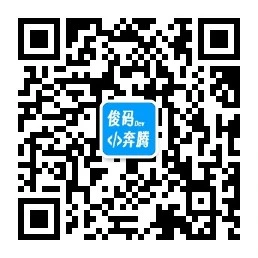
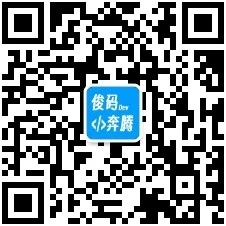
Site updated: 2024-10-30 13:49:55

diff --git a/archives/2023/11/index.html b/archives/2023/11/index.html
@@ -473,9 +473,9 @@
 <p>我大学主修软件工程专业，2016 年入学，修完四年的课程于 2020 年毕业。毕业后进入 IT 行业从事 Java 研发工作，经过紧张的面试准备，幸运于很快就找到了工作，然后和大家一样经历了三年疫情，民生多艰。</p>
 <p>工作上技术以 Java 周边的技术栈为主，涉及 Linux 服务端web开发，大数据，GIS等，喜欢阅读，还喜欢研究新技术，知识管理，时间管理等方法。</p>
 <p>除了上班勤勤恳恳地敲代码，业余还喜欢犒劳下自己，下厨做美食，外出探店，或者路边喝杯咖啡吃个甜点小憩下。我也很喜欢户外运动，无奈上班以来时间渐少，但还是会忙里偷闲，拿出些时间户外游山玩水，以前也去过很多地方，遇到很多有趣的人和事，后面有兴趣可以写几篇聊聊。</p>
-<p><a href='/about'>博客</a>作为自留地，没啥人看，当作自言自语和内心聊天。主要记录：技术开发、生活感悟、读书笔记。</p>
-<p>联系我：邮箱：youngdream365##qq.com（##替换为@）	<a target="_blank" rel="noopener" href='https://gitee.com/youngdream365'>github</a>	<a target="_blank" rel="noopener" href='https://gitee.com/youngdream365'>gitee</a></p>
-<img src="img/wechat_gzh_qrcode2.webp" alt="微信公众号" style="zoom:50%;" />
+<p>博客作为自留地，没啥人看，当作自言自语和内心聊天。主要记录：技术开发、生活感悟、读书笔记。   <a href='/about'>关于博客</a></p>
+<p>联系我：<a target="_blank" rel="noopener" href='https://github.com/youngdream365'>github</a>    <a target="_blank" rel="noopener" href='https://gitee.com/youngdream365'>gitee</a> 邮箱：youngdream365##qq.com（##替换为@）</p>
+<img src="img/wechat_gzh_qrcode.webp" alt="微信公众号" style="zoom:50%;" />
 
 
 

diff --git a/archives/2023/index.html b/archives/2023/index.html
@@ -473,9 +473,9 @@
 <p>我大学主修软件工程专业，2016 年入学，修完四年的课程于 2020 年毕业。毕业后进入 IT 行业从事 Java 研发工作，经过紧张的面试准备，幸运于很快就找到了工作，然后和大家一样经历了三年疫情，民生多艰。</p>
 <p>工作上技术以 Java 周边的技术栈为主，涉及 Linux 服务端web开发，大数据，GIS等，喜欢阅读，还喜欢研究新技术，知识管理，时间管理等方法。</p>
 <p>除了上班勤勤恳恳地敲代码，业余还喜欢犒劳下自己，下厨做美食，外出探店，或者路边喝杯咖啡吃个甜点小憩下。我也很喜欢户外运动，无奈上班以来时间渐少，但还是会忙里偷闲，拿出些时间户外游山玩水，以前也去过很多地方，遇到很多有趣的人和事，后面有兴趣可以写几篇聊聊。</p>
-<p><a href='/about'>博客</a>作为自留地，没啥人看，当作自言自语和内心聊天。主要记录：技术开发、生活感悟、读书笔记。</p>
-<p>联系我：邮箱：youngdream365##qq.com（##替换为@）	<a target="_blank" rel="noopener" href='https://gitee.com/youngdream365'>github</a>	<a target="_blank" rel="noopener" href='https://gitee.com/youngdream365'>gitee</a></p>
-<img src="img/wechat_gzh_qrcode2.webp" alt="微信公众号" style="zoom:50%;" />
+<p>博客作为自留地，没啥人看，当作自言自语和内心聊天。主要记录：技术开发、生活感悟、读书笔记。   <a href='/about'>关于博客</a></p>
+<p>联系我：<a target="_blank" rel="noopener" href='https://github.com/youngdream365'>github</a>    <a target="_blank" rel="noopener" href='https://gitee.com/youngdream365'>gitee</a> 邮箱：youngdream365##qq.com（##替换为@）</p>
+<img src="img/wechat_gzh_qrcode.webp" alt="微信公众号" style="zoom:50%;" />
 
 
 

diff --git a/archives/2024/08/index.html b/archives/2024/08/index.html
@@ -473,9 +473,9 @@
 <p>我大学主修软件工程专业，2016 年入学，修完四年的课程于 2020 年毕业。毕业后进入 IT 行业从事 Java 研发工作，经过紧张的面试准备，幸运于很快就找到了工作，然后和大家一样经历了三年疫情，民生多艰。</p>
 <p>工作上技术以 Java 周边的技术栈为主，涉及 Linux 服务端web开发，大数据，GIS等，喜欢阅读，还喜欢研究新技术，知识管理，时间管理等方法。</p>
 <p>除了上班勤勤恳恳地敲代码，业余还喜欢犒劳下自己，下厨做美食，外出探店，或者路边喝杯咖啡吃个甜点小憩下。我也很喜欢户外运动，无奈上班以来时间渐少，但还是会忙里偷闲，拿出些时间户外游山玩水，以前也去过很多地方，遇到很多有趣的人和事，后面有兴趣可以写几篇聊聊。</p>
-<p><a href='/about'>博客</a>作为自留地，没啥人看，当作自言自语和内心聊天。主要记录：技术开发、生活感悟、读书笔记。</p>
-<p>联系我：邮箱：youngdream365##qq.com（##替换为@）	<a target="_blank" rel="noopener" href='https://gitee.com/youngdream365'>github</a>	<a target="_blank" rel="noopener" href='https://gitee.com/youngdream365'>gitee</a></p>
-<img src="img/wechat_gzh_qrcode2.webp" alt="微信公众号" style="zoom:50%;" />
+<p>博客作为自留地，没啥人看，当作自言自语和内心聊天。主要记录：技术开发、生活感悟、读书笔记。   <a href='/about'>关于博客</a></p>
+<p>联系我：<a target="_blank" rel="noopener" href='https://github.com/youngdream365'>github</a>    <a target="_blank" rel="noopener" href='https://gitee.com/youngdream365'>gitee</a> 邮箱：youngdream365##qq.com（##替换为@）</p>
+<img src="img/wechat_gzh_qrcode.webp" alt="微信公众号" style="zoom:50%;" />
 
 
 

diff --git a/archives/2024/09/index.html b/archives/2024/09/index.html
@@ -473,9 +473,9 @@
 <p>我大学主修软件工程专业，2016 年入学，修完四年的课程于 2020 年毕业。毕业后进入 IT 行业从事 Java 研发工作，经过紧张的面试准备，幸运于很快就找到了工作，然后和大家一样经历了三年疫情，民生多艰。</p>
 <p>工作上技术以 Java 周边的技术栈为主，涉及 Linux 服务端web开发，大数据，GIS等，喜欢阅读，还喜欢研究新技术，知识管理，时间管理等方法。</p>
 <p>除了上班勤勤恳恳地敲代码，业余还喜欢犒劳下自己，下厨做美食，外出探店，或者路边喝杯咖啡吃个甜点小憩下。我也很喜欢户外运动，无奈上班以来时间渐少，但还是会忙里偷闲，拿出些时间户外游山玩水，以前也去过很多地方，遇到很多有趣的人和事，后面有兴趣可以写几篇聊聊。</p>
-<p><a href='/about'>博客</a>作为自留地，没啥人看，当作自言自语和内心聊天。主要记录：技术开发、生活感悟、读书笔记。</p>
-<p>联系我：邮箱：youngdream365##qq.com（##替换为@）	<a target="_blank" rel="noopener" href='https://gitee.com/youngdream365'>github</a>	<a target="_blank" rel="noopener" href='https://gitee.com/youngdream365'>gitee</a></p>
-<img src="img/wechat_gzh_qrcode2.webp" alt="微信公众号" style="zoom:50%;" />
+<p>博客作为自留地，没啥人看，当作自言自语和内心聊天。主要记录：技术开发、生活感悟、读书笔记。   <a href='/about'>关于博客</a></p>
+<p>联系我：<a target="_blank" rel="noopener" href='https://github.com/youngdream365'>github</a>    <a target="_blank" rel="noopener" href='https://gitee.com/youngdream365'>gitee</a> 邮箱：youngdream365##qq.com（##替换为@）</p>
+<img src="img/wechat_gzh_qrcode.webp" alt="微信公众号" style="zoom:50%;" />
 
 
 

diff --git a/archives/2024/index.html b/archives/2024/index.html
@@ -473,9 +473,9 @@
 <p>我大学主修软件工程专业，2016 年入学，修完四年的课程于 2020 年毕业。毕业后进入 IT 行业从事 Java 研发工作，经过紧张的面试准备，幸运于很快就找到了工作，然后和大家一样经历了三年疫情，民生多艰。</p>
 <p>工作上技术以 Java 周边的技术栈为主，涉及 Linux 服务端web开发，大数据，GIS等，喜欢阅读，还喜欢研究新技术，知识管理，时间管理等方法。</p>
 <p>除了上班勤勤恳恳地敲代码，业余还喜欢犒劳下自己，下厨做美食，外出探店，或者路边喝杯咖啡吃个甜点小憩下。我也很喜欢户外运动，无奈上班以来时间渐少，但还是会忙里偷闲，拿出些时间户外游山玩水，以前也去过很多地方，遇到很多有趣的人和事，后面有兴趣可以写几篇聊聊。</p>
-<p><a href='/about'>博客</a>作为自留地，没啥人看，当作自言自语和内心聊天。主要记录：技术开发、生活感悟、读书笔记。</p>
-<p>联系我：邮箱：youngdream365##qq.com（##替换为@）	<a target="_blank" rel="noopener" href='https://gitee.com/youngdream365'>github</a>	<a target="_blank" rel="noopener" href='https://gitee.com/youngdream365'>gitee</a></p>
-<img src="img/wechat_gzh_qrcode2.webp" alt="微信公众号" style="zoom:50%;" />
+<p>博客作为自留地，没啥人看，当作自言自语和内心聊天。主要记录：技术开发、生活感悟、读书笔记。   <a href='/about'>关于博客</a></p>
+<p>联系我：<a target="_blank" rel="noopener" href='https://github.com/youngdream365'>github</a>    <a target="_blank" rel="noopener" href='https://gitee.com/youngdream365'>gitee</a> 邮箱：youngdream365##qq.com（##替换为@）</p>
+<img src="img/wechat_gzh_qrcode.webp" alt="微信公众号" style="zoom:50%;" />
 
 
 

diff --git a/archives/2024/page/2/index.html b/archives/2024/page/2/index.html
@@ -473,9 +473,9 @@
 <p>我大学主修软件工程专业，2016 年入学，修完四年的课程于 2020 年毕业。毕业后进入 IT 行业从事 Java 研发工作，经过紧张的面试准备，幸运于很快就找到了工作，然后和大家一样经历了三年疫情，民生多艰。</p>
 <p>工作上技术以 Java 周边的技术栈为主，涉及 Linux 服务端web开发，大数据，GIS等，喜欢阅读，还喜欢研究新技术，知识管理，时间管理等方法。</p>
 <p>除了上班勤勤恳恳地敲代码，业余还喜欢犒劳下自己，下厨做美食，外出探店，或者路边喝杯咖啡吃个甜点小憩下。我也很喜欢户外运动，无奈上班以来时间渐少，但还是会忙里偷闲，拿出些时间户外游山玩水，以前也去过很多地方，遇到很多有趣的人和事，后面有兴趣可以写几篇聊聊。</p>
-<p><a href='/about'>博客</a>作为自留地，没啥人看，当作自言自语和内心聊天。主要记录：技术开发、生活感悟、读书笔记。</p>
-<p>联系我：邮箱：youngdream365##qq.com（##替换为@）	<a target="_blank" rel="noopener" href='https://gitee.com/youngdream365'>github</a>	<a target="_blank" rel="noopener" href='https://gitee.com/youngdream365'>gitee</a></p>
-<img src="img/wechat_gzh_qrcode2.webp" alt="微信公众号" style="zoom:50%;" />
+<p>博客作为自留地，没啥人看，当作自言自语和内心聊天。主要记录：技术开发、生活感悟、读书笔记。   <a href='/about'>关于博客</a></p>
+<p>联系我：<a target="_blank" rel="noopener" href='https://github.com/youngdream365'>github</a>    <a target="_blank" rel="noopener" href='https://gitee.com/youngdream365'>gitee</a> 邮箱：youngdream365##qq.com（##替换为@）</p>
+<img src="img/wechat_gzh_qrcode.webp" alt="微信公众号" style="zoom:50%;" />
 
 
 

diff --git a/archives/index.html b/archives/index.html
@@ -473,9 +473,9 @@
 <p>我大学主修软件工程专业，2016 年入学，修完四年的课程于 2020 年毕业。毕业后进入 IT 行业从事 Java 研发工作，经过紧张的面试准备，幸运于很快就找到了工作，然后和大家一样经历了三年疫情，民生多艰。</p>
 <p>工作上技术以 Java 周边的技术栈为主，涉及 Linux 服务端web开发，大数据，GIS等，喜欢阅读，还喜欢研究新技术，知识管理，时间管理等方法。</p>
 <p>除了上班勤勤恳恳地敲代码，业余还喜欢犒劳下自己，下厨做美食，外出探店，或者路边喝杯咖啡吃个甜点小憩下。我也很喜欢户外运动，无奈上班以来时间渐少，但还是会忙里偷闲，拿出些时间户外游山玩水，以前也去过很多地方，遇到很多有趣的人和事，后面有兴趣可以写几篇聊聊。</p>
-<p><a href='/about'>博客</a>作为自留地，没啥人看，当作自言自语和内心聊天。主要记录：技术开发、生活感悟、读书笔记。</p>
-<p>联系我：邮箱：youngdream365##qq.com（##替换为@）	<a target="_blank" rel="noopener" href='https://gitee.com/youngdream365'>github</a>	<a target="_blank" rel="noopener" href='https://gitee.com/youngdream365'>gitee</a></p>
-<img src="img/wechat_gzh_qrcode2.webp" alt="微信公众号" style="zoom:50%;" />
+<p>博客作为自留地，没啥人看，当作自言自语和内心聊天。主要记录：技术开发、生活感悟、读书笔记。   <a href='/about'>关于博客</a></p>
+<p>联系我：<a target="_blank" rel="noopener" href='https://github.com/youngdream365'>github</a>    <a target="_blank" rel="noopener" href='https://gitee.com/youngdream365'>gitee</a> 邮箱：youngdream365##qq.com（##替换为@）</p>
+<img src="img/wechat_gzh_qrcode.webp" alt="微信公众号" style="zoom:50%;" />
 
 
 

diff --git a/archives/page/2/index.html b/archives/page/2/index.html
@@ -473,9 +473,9 @@
 <p>我大学主修软件工程专业，2016 年入学，修完四年的课程于 2020 年毕业。毕业后进入 IT 行业从事 Java 研发工作，经过紧张的面试准备，幸运于很快就找到了工作，然后和大家一样经历了三年疫情，民生多艰。</p>
 <p>工作上技术以 Java 周边的技术栈为主，涉及 Linux 服务端web开发，大数据，GIS等，喜欢阅读，还喜欢研究新技术，知识管理，时间管理等方法。</p>
 <p>除了上班勤勤恳恳地敲代码，业余还喜欢犒劳下自己，下厨做美食，外出探店，或者路边喝杯咖啡吃个甜点小憩下。我也很喜欢户外运动，无奈上班以来时间渐少，但还是会忙里偷闲，拿出些时间户外游山玩水，以前也去过很多地方，遇到很多有趣的人和事，后面有兴趣可以写几篇聊聊。</p>
-<p><a href='/about'>博客</a>作为自留地，没啥人看，当作自言自语和内心聊天。主要记录：技术开发、生活感悟、读书笔记。</p>
-<p>联系我：邮箱：youngdream365##qq.com（##替换为@）	<a target="_blank" rel="noopener" href='https://gitee.com/youngdream365'>github</a>	<a target="_blank" rel="noopener" href='https://gitee.com/youngdream365'>gitee</a></p>
-<img src="img/wechat_gzh_qrcode2.webp" alt="微信公众号" style="zoom:50%;" />
+<p>博客作为自留地，没啥人看，当作自言自语和内心聊天。主要记录：技术开发、生活感悟、读书笔记。   <a href='/about'>关于博客</a></p>
+<p>联系我：<a target="_blank" rel="noopener" href='https://github.com/youngdream365'>github</a>    <a target="_blank" rel="noopener" href='https://gitee.com/youngdream365'>gitee</a> 邮箱：youngdream365##qq.com（##替换为@）</p>
+<img src="img/wechat_gzh_qrcode.webp" alt="微信公众号" style="zoom:50%;" />
 
 
 

diff --git a/categories/blog/hexo/index.html b/categories/blog/hexo/index.html
@@ -473,9 +473,9 @@
 <p>我大学主修软件工程专业，2016 年入学，修完四年的课程于 2020 年毕业。毕业后进入 IT 行业从事 Java 研发工作，经过紧张的面试准备，幸运于很快就找到了工作，然后和大家一样经历了三年疫情，民生多艰。</p>
 <p>工作上技术以 Java 周边的技术栈为主，涉及 Linux 服务端web开发，大数据，GIS等，喜欢阅读，还喜欢研究新技术，知识管理，时间管理等方法。</p>
 <p>除了上班勤勤恳恳地敲代码，业余还喜欢犒劳下自己，下厨做美食，外出探店，或者路边喝杯咖啡吃个甜点小憩下。我也很喜欢户外运动，无奈上班以来时间渐少，但还是会忙里偷闲，拿出些时间户外游山玩水，以前也去过很多地方，遇到很多有趣的人和事，后面有兴趣可以写几篇聊聊。</p>
-<p><a href='/about'>博客</a>作为自留地，没啥人看，当作自言自语和内心聊天。主要记录：技术开发、生活感悟、读书笔记。</p>
-<p>联系我：邮箱：youngdream365##qq.com（##替换为@）	<a target="_blank" rel="noopener" href='https://gitee.com/youngdream365'>github</a>	<a target="_blank" rel="noopener" href='https://gitee.com/youngdream365'>gitee</a></p>
-<img src="img/wechat_gzh_qrcode2.webp" alt="微信公众号" style="zoom:50%;" />
+<p>博客作为自留地，没啥人看，当作自言自语和内心聊天。主要记录：技术开发、生活感悟、读书笔记。   <a href='/about'>关于博客</a></p>
+<p>联系我：<a target="_blank" rel="noopener" href='https://github.com/youngdream365'>github</a>    <a target="_blank" rel="noopener" href='https://gitee.com/youngdream365'>gitee</a> 邮箱：youngdream365##qq.com（##替换为@）</p>
+<img src="img/wechat_gzh_qrcode.webp" alt="微信公众号" style="zoom:50%;" />
 
 
 

diff --git a/categories/blog/index.html b/categories/blog/index.html
@@ -473,9 +473,9 @@
 <p>我大学主修软件工程专业，2016 年入学，修完四年的课程于 2020 年毕业。毕业后进入 IT 行业从事 Java 研发工作，经过紧张的面试准备，幸运于很快就找到了工作，然后和大家一样经历了三年疫情，民生多艰。</p>
 <p>工作上技术以 Java 周边的技术栈为主，涉及 Linux 服务端web开发，大数据，GIS等，喜欢阅读，还喜欢研究新技术，知识管理，时间管理等方法。</p>
 <p>除了上班勤勤恳恳地敲代码，业余还喜欢犒劳下自己，下厨做美食，外出探店，或者路边喝杯咖啡吃个甜点小憩下。我也很喜欢户外运动，无奈上班以来时间渐少，但还是会忙里偷闲，拿出些时间户外游山玩水，以前也去过很多地方，遇到很多有趣的人和事，后面有兴趣可以写几篇聊聊。</p>
-<p><a href='/about'>博客</a>作为自留地，没啥人看，当作自言自语和内心聊天。主要记录：技术开发、生活感悟、读书笔记。</p>
-<p>联系我：邮箱：youngdream365##qq.com（##替换为@）	<a target="_blank" rel="noopener" href='https://gitee.com/youngdream365'>github</a>	<a target="_blank" rel="noopener" href='https://gitee.com/youngdream365'>gitee</a></p>
-<img src="img/wechat_gzh_qrcode2.webp" alt="微信公众号" style="zoom:50%;" />
+<p>博客作为自留地，没啥人看，当作自言自语和内心聊天。主要记录：技术开发、生活感悟、读书笔记。   <a href='/about'>关于博客</a></p>
+<p>联系我：<a target="_blank" rel="noopener" href='https://github.com/youngdream365'>github</a>    <a target="_blank" rel="noopener" href='https://gitee.com/youngdream365'>gitee</a> 邮箱：youngdream365##qq.com（##替换为@）</p>
+<img src="img/wechat_gzh_qrcode.webp" alt="微信公众号" style="zoom:50%;" />
 
 
 

diff --git a/categories/软考/index.html b/categories/软考/index.html
@@ -473,9 +473,9 @@
 <p>我大学主修软件工程专业，2016 年入学，修完四年的课程于 2020 年毕业。毕业后进入 IT 行业从事 Java 研发工作，经过紧张的面试准备，幸运于很快就找到了工作，然后和大家一样经历了三年疫情，民生多艰。</p>
 <p>工作上技术以 Java 周边的技术栈为主，涉及 Linux 服务端web开发，大数据，GIS等，喜欢阅读，还喜欢研究新技术，知识管理，时间管理等方法。</p>
 <p>除了上班勤勤恳恳地敲代码，业余还喜欢犒劳下自己，下厨做美食，外出探店，或者路边喝杯咖啡吃个甜点小憩下。我也很喜欢户外运动，无奈上班以来时间渐少，但还是会忙里偷闲，拿出些时间户外游山玩水，以前也去过很多地方，遇到很多有趣的人和事，后面有兴趣可以写几篇聊聊。</p>
-<p><a href='/about'>博客</a>作为自留地，没啥人看，当作自言自语和内心聊天。主要记录：技术开发、生活感悟、读书笔记。</p>
-<p>联系我：邮箱：youngdream365##qq.com（##替换为@）	<a target="_blank" rel="noopener" href='https://gitee.com/youngdream365'>github</a>	<a target="_blank" rel="noopener" href='https://gitee.com/youngdream365'>gitee</a></p>
-<img src="img/wechat_gzh_qrcode2.webp" alt="微信公众号" style="zoom:50%;" />
+<p>博客作为自留地，没啥人看，当作自言自语和内心聊天。主要记录：技术开发、生活感悟、读书笔记。   <a href='/about'>关于博客</a></p>
+<p>联系我：<a target="_blank" rel="noopener" href='https://github.com/youngdream365'>github</a>    <a target="_blank" rel="noopener" href='https://gitee.com/youngdream365'>gitee</a> 邮箱：youngdream365##qq.com（##替换为@）</p>
+<img src="img/wechat_gzh_qrcode.webp" alt="微信公众号" style="zoom:50%;" />
 
 
 

diff --git a/categories/软考/page/2/index.html b/categories/软考/page/2/index.html
@@ -473,9 +473,9 @@
 <p>我大学主修软件工程专业，2016 年入学，修完四年的课程于 2020 年毕业。毕业后进入 IT 行业从事 Java 研发工作，经过紧张的面试准备，幸运于很快就找到了工作，然后和大家一样经历了三年疫情，民生多艰。</p>
 <p>工作上技术以 Java 周边的技术栈为主，涉及 Linux 服务端web开发，大数据，GIS等，喜欢阅读，还喜欢研究新技术，知识管理，时间管理等方法。</p>
 <p>除了上班勤勤恳恳地敲代码，业余还喜欢犒劳下自己，下厨做美食，外出探店，或者路边喝杯咖啡吃个甜点小憩下。我也很喜欢户外运动，无奈上班以来时间渐少，但还是会忙里偷闲，拿出些时间户外游山玩水，以前也去过很多地方，遇到很多有趣的人和事，后面有兴趣可以写几篇聊聊。</p>
-<p><a href='/about'>博客</a>作为自留地，没啥人看，当作自言自语和内心聊天。主要记录：技术开发、生活感悟、读书笔记。</p>
-<p>联系我：邮箱：youngdream365##qq.com（##替换为@）	<a target="_blank" rel="noopener" href='https://gitee.com/youngdream365'>github</a>	<a target="_blank" rel="noopener" href='https://gitee.com/youngdream365'>gitee</a></p>
-<img src="img/wechat_gzh_qrcode2.webp" alt="微信公众号" style="zoom:50%;" />
+<p>博客作为自留地，没啥人看，当作自言自语和内心聊天。主要记录：技术开发、生活感悟、读书笔记。   <a href='/about'>关于博客</a></p>
+<p>联系我：<a target="_blank" rel="noopener" href='https://github.com/youngdream365'>github</a>    <a target="_blank" rel="noopener" href='https://gitee.com/youngdream365'>gitee</a> 邮箱：youngdream365##qq.com（##替换为@）</p>
+<img src="img/wechat_gzh_qrcode.webp" alt="微信公众号" style="zoom:50%;" />
 
 
 
